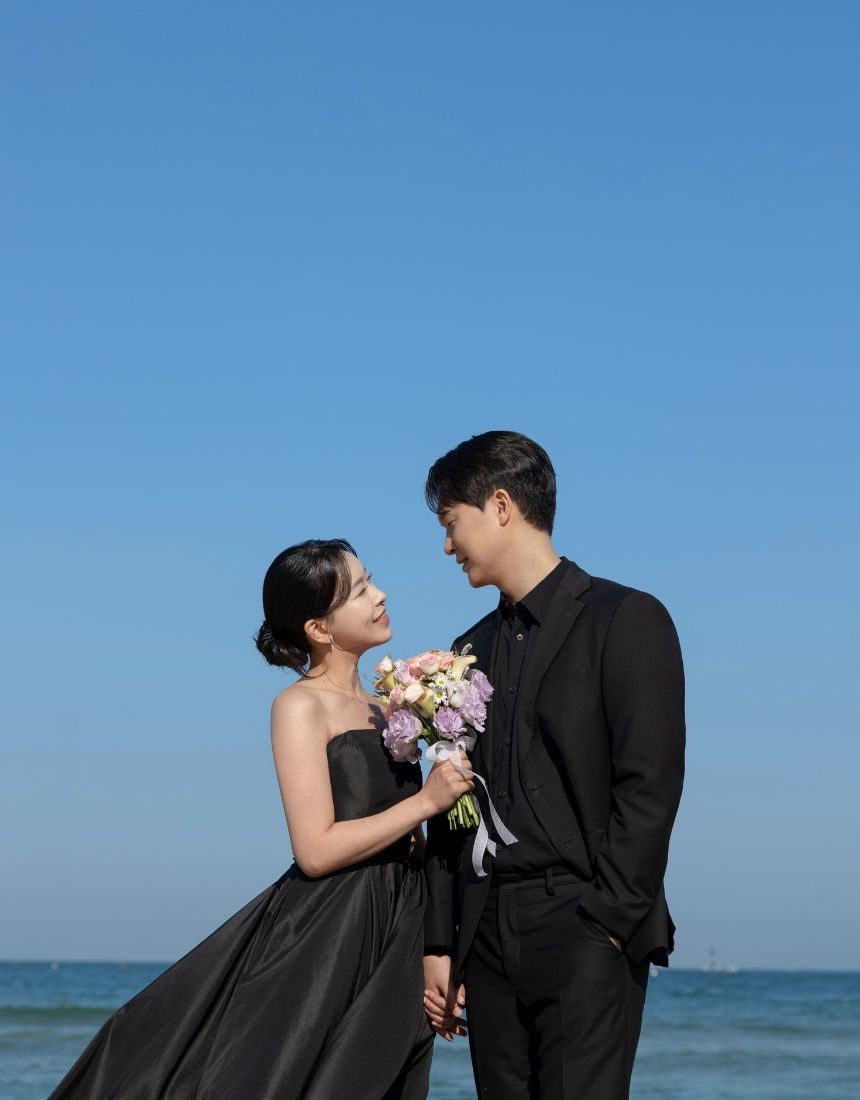
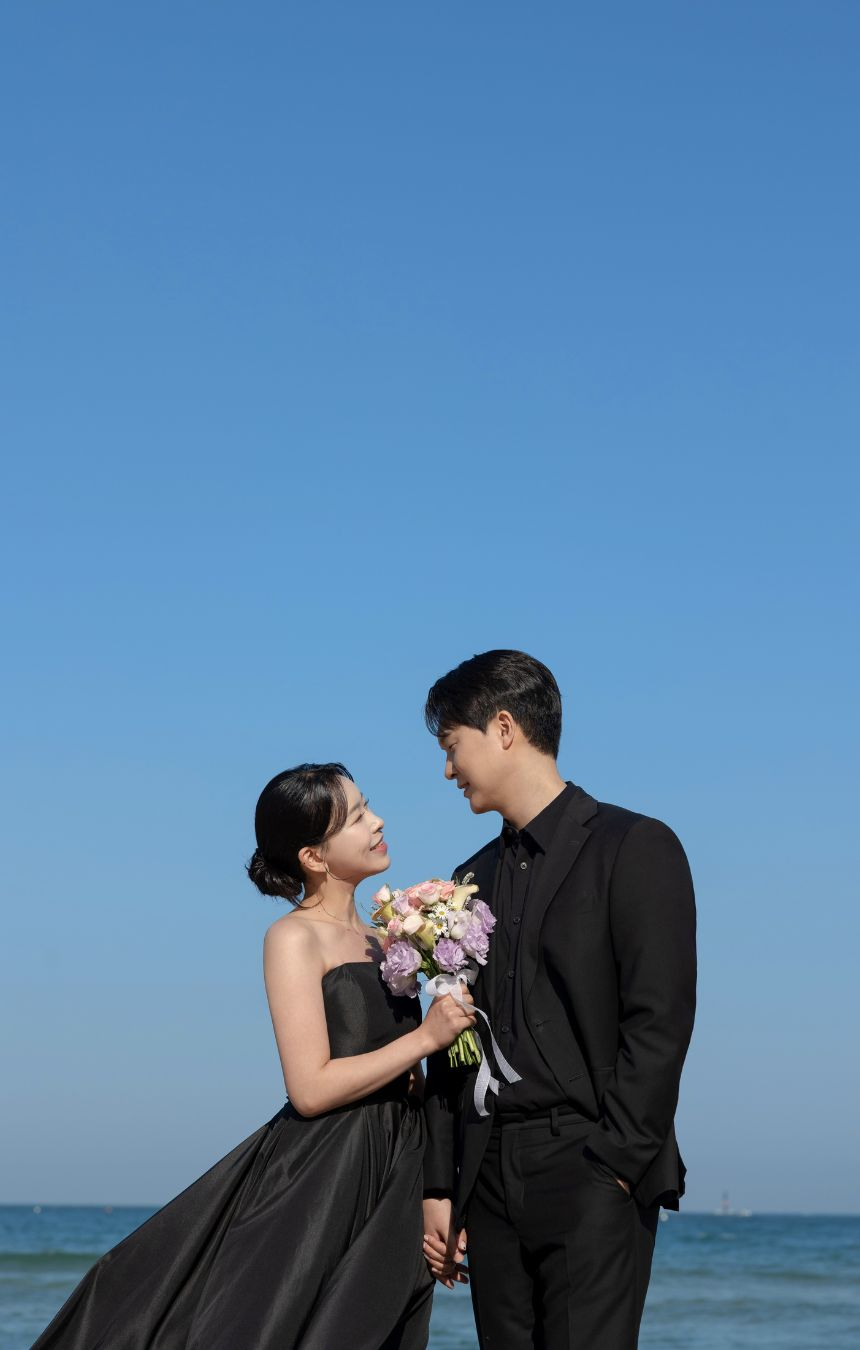
image

diff --git a/invitation.html b/invitation.html
@@ -1549,7 +1549,7 @@
         #area1 {
             padding: 0 !important;
             height: auto;
-            min-height: 765px;
+            min-height: 100vh;
             /* 고정 높이로 변경 */
             position: relative;
             overflow: hidden;
@@ -1793,7 +1793,7 @@
         @media (max-width: 430px) {
             #area1 {
                 padding-bottom: 177.875%;
-                min-height: 765px;
+                /*min-height: 765px;*/
             }
 
             #item_4 .text,
